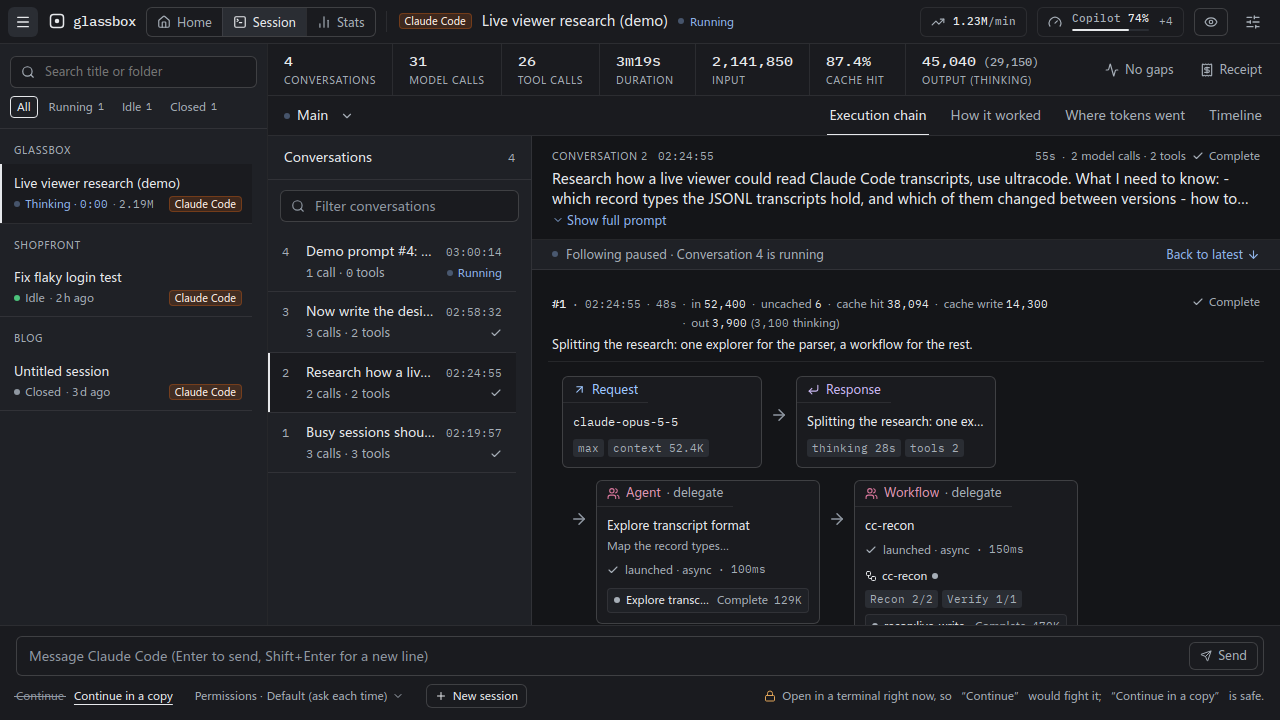
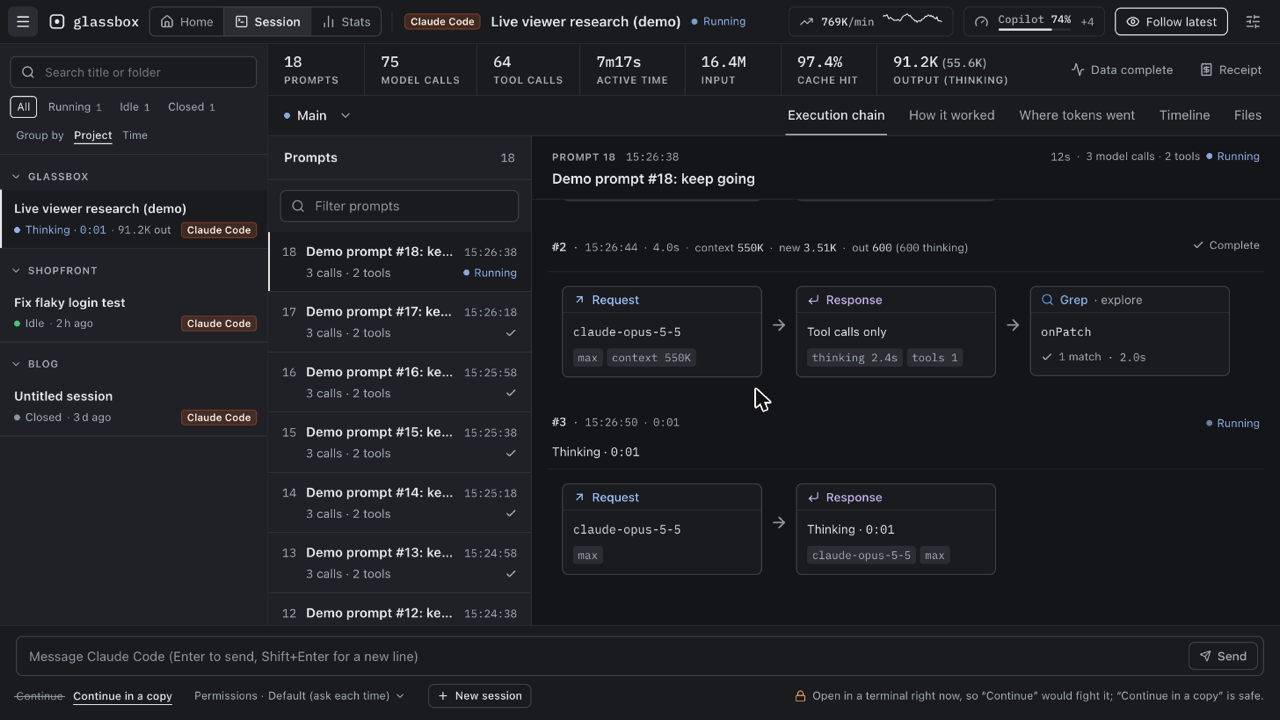
glassbox v0.6.0

diff --git a/README.md b/README.md
@@ -10,25 +10,25 @@
 
 **Execution chain**: every model call of a turn, laid out as request → response → tools. Agent / Workflow cards show the progress of their sub-agents and phases; click through to see that agent's own chain.
 
-|                                                          How it worked                                                           |                                                  Where tokens went                                                  |
-| :------------------------------------------------------------------------------------------------------------------------------: | :-----------------------------------------------------------------------------------------------------------------: |
-|                                             ![How it worked](docs/images/steps.png)                                              |                                    ![Where tokens went](docs/images/tokens.png)                                     |
-|            What each step thought, said and did, grouped into phases such as explore / edit / run; failures stand out            | A one-line takeaway, the mix of cache reads, cache writes and output, a per-agent tree and the context growth curve |
-|                                                           **Timeline**                                                           |                                                 **Request details**                                                 |
-|                                              ![Timeline](docs/images/timeline.png)                                               |                                     ![Request details](docs/images/detail.png)                                      |
-| Whether the time went to thinking, generating, tools or idling; one lane per agent, so parallel workflow agents are easy to read |      The system prompt, messages and tools each request actually sent, as JSON trees you can copy and enlarge       |
-|                                                       **Sending messages**                                                       |                                                  **Live overlay**                                                   |
-|                                           ![Sending messages](docs/images/compose.png)                                           |                                        ![Live overlay](docs/images/live.png)                                        |
-|      Continue a session, or continue in a copy, from glassbox; replies stream in and permission prompts pop up in the page       |          No more black box while the model thinks: live thinking time, thinking tokens and streamed output          |
-|                                                          **Now board**                                                           |                                                   **Token rate**                                                    |
-|                                                ![Now board](docs/images/home.png)                                                |                                         ![Token rate](docs/images/rate.png)                                         |
-|                  What runs now, each session saying what it is doing this second; then the recently active ones                  |         Tokens a minute across this machine's CLIs, the last hour as a line; split by CLI and by token kind         |
-|                                                            **Stats**                                                             |                                                                                                                     |
-|                                                 ![Stats](docs/images/stats.png)                                                  |                                                                                                                     |
-|  When the agents worked this week, hour by hour; time by CLI and by project; the longest sessions, the tokens and the rate now   |                                                                                                                     |
-|                                                           **Receipt**                                                            |                                                 **Weekly receipt**                                                  |
-|                  <img src="docs/images/receipt.png" alt="Receipt: a session printed as a receipt" width="360">                   |      <img src="docs/images/weekly-receipt.png" alt="Weekly receipt: a week printed as a receipt" width="360">       |
-| A session printed as a receipt: its work, time and tokens, with the timeline as its barcode; made in your browser, ready to post |  The week as a receipt, from Stats or a session's Receipt: agent time, the hours as a grid, time by CLI and tokens  |
+|                                                          How it worked                                                           |                                                     Where tokens went                                                     |
+| :------------------------------------------------------------------------------------------------------------------------------: | :-----------------------------------------------------------------------------------------------------------------------: |
+|                                             ![How it worked](docs/images/steps.png)                                              |                                       ![Where tokens went](docs/images/tokens.png)                                        |
+|            What each step thought, said and did, grouped into phases such as explore / edit / run; failures stand out            |    A one-line takeaway, the mix of cache reads, cache writes and output, a per-agent tree and the context growth curve    |
+|                                                           **Timeline**                                                           |                                                    **Request details**                                                    |
+|                                              ![Timeline](docs/images/timeline.png)                                               |                                        ![Request details](docs/images/detail.png)                                         |
+| Whether the time went to thinking, generating, tools or idling; one lane per agent, so parallel workflow agents are easy to read |         The system prompt, messages and tools each request actually sent, as JSON trees you can copy and enlarge          |
+|                                                       **Sending messages**                                                       |                                                     **Live overlay**                                                      |
+|                                           ![Sending messages](docs/images/compose.png)                                           |                                           ![Live overlay](docs/images/live.png)                                           |
+|      Continue a session, or continue in a copy, from glassbox; replies stream in and permission prompts pop up in the page       |             No more black box while the model thinks: live thinking time, thinking tokens and streamed output             |
+|                                                          **Home board**                                                          |                                                      **Token rate**                                                       |
+|                                               ![Home board](docs/images/home.png)                                                |                                            ![Token rate](docs/images/rate.png)                                            |
+|        Needs you, Working, Recent: which sessions wait for you and for what, which are working and on what, then the rest        |            Tokens a minute across this machine's CLIs, the last hour as a line; split by CLI and by token kind            |
+|                                                            **Stats**                                                             |                                                         **Files**                                                         |
+|                                                 ![Stats](docs/images/stats.png)                                                  |                                              ![Files](docs/images/files.png)                                              |
+|  When the agents worked this week, hour by hour; time by CLI and by project; the longest sessions, the tokens and the rate now   | Which files the session read, edited and created, by directory; each unfolds into its edits as diffs, linked to the calls |
+|                                                           **Receipt**                                                            |                                                    **Weekly receipt**                                                     |
+|                  <img src="docs/images/receipt.png" alt="Receipt: a session printed as a receipt" width="360">                   |         <img src="docs/images/weekly-receipt.png" alt="Weekly receipt: a week printed as a receipt" width="360">          |
+| A session printed as a receipt: its work, time and tokens, with the timeline as its barcode; made in your browser, ready to post |     The week as a receipt, from Stats or a session's Receipt: agent time, the hours as a grid, time by CLI and tokens     |
 
 ## Run it
 
@@ -43,7 +43,7 @@ The first run downloads and builds (about a minute), then opens `http://127.0.0.
 Pin a version (recommended, so the contents do not change with the branch):
 
 ```sh
-npx --yes github:gogy717/glassbox#v0.5.0
+npx --yes github:gogy717/glassbox#v0.6.0
 ```
 
 Common options:
@@ -69,12 +69,13 @@ To install it for good: `npm install -g github:gogy717/glassbox`, then run `glas
 ## What you can see
 
 - **Three pages**: Home, Session and Stats, in the top bar; the glassbox wordmark goes Home too. Session takes you back to the session you last had open, or else to the most recently active one.
-- **Now board**: Home lists the running sessions first, each saying what it is doing right now ("Reading tokens.css · 0:04", "Thinking · 1:12", "Waiting for you"), then the recently active ones. The sidebar's rows say the same.
-- **Stats**: this week (from Monday) or the last 7 days, across every session glassbox lists: agent time, session time, sessions, model and tool calls, sub-agents and failures; a 7 × 24 grid of when the agents worked, with a card for the hour you pick (the busiest, to begin with); time by CLI and by project (hover one to see it alone in the grid, click to pin it); the longest sessions; the tokens; and right now, the token rate and plan usage. It reads the week each time you open it and every minute while it is in view; "Data as of" says when, and Refresh reads it again at once.
-- **Execution chain**: organised by user turn, one row per model call: request → response → tools, failures in red. While the model thinks it shows "Thinking · m:ss", and running tools count up live.
+- **Home board**: Needs you first: the sessions waiting for you, each saying what for ("Permission · Bash", "Question", "Your turn") and for how long; then Working, each saying what it is doing right now ("Reading tokens.css · 0:04", "Thinking · 1:12"); then Recent. The sidebar's rows say the same. The tab's title counts the sessions that need you ("(2) glassbox"), and a setting can send a desktop notification when one begins to wait.
+- **Stats**: this week (from Monday) or the last 7 days, across every session glassbox lists: agent time, session time, sessions, model and tool calls, sub-agents and failures; a 7 × 24 grid of when the agents worked, with a card for the hour you pick (the busiest, to begin with); time by CLI and by project (hover one to see it alone in the grid, click to pin it); the longest sessions; the tokens; and right now, the token rate and plan usage. It reads the week each time you open it and every minute while it is in view; "Data as of" says when, and Refresh reads it again at once. Less than a day into the week, the Stats link opens on the last 7 days and says so once.
+- **Execution chain**: organised by prompt (each message you sent), one row per model call: request → response → tools, failures in red; a call row reads `context 317K · new 4.9K · out 1.4K`, with the full token split on hover. The prompt list marks each day and folds runs of local commands. While the model thinks it shows "Thinking · m:ss", and running tools count up live.
 - **How it worked**: each turn told step by step as "thought → said → did → outcome", grouped into phases such as explore / edit / run / delegate.
 - **Where tokens went**: cache reads, cache writes, uncached input and output (including thinking); totals per agent and per Workflow phase; the context growth curve (with compaction points); the most expensive requests.
 - **Timeline**: one lane per agent, split into waiting / thinking / generating / tools; where the time went and the 10 slowest steps.
+- **Files**: which files the session read, searched, edited and created, by directory relative to the project, with counts and the last touch; a file unfolds into its calls in order, edits as two-colour diffs, each linked to the call in the execution chain. Filter by Edited / Created / Read or by path, with or without sub-agents. Recognises the file tools of Claude Code, Codex, OpenCode, oh-my-pi and Grok.
 - **Multi-agent**: phases, agents, status and tokens of Agent sub-agents and Workflow (ultracode) runs; drill into any agent to see its own chain.
 - **Request details**: with Claude Code ≥ 2.1.300, the system prompt, tools and messages each request actually sent to the model.
 - **Plan usage per provider**: one meter per provider in the top bar, its window closest to the limit; click for every window, reset times, the plan, and where the numbers came from. Every 5 minutes glassbox asks the providers it can for fresh numbers (see Data and privacy), and shows whichever is newest: that answer or an agent's own cache. Stale data greys out per provider, says how old it is, and says why (such as an expired sign-in) and how it will refresh.
@@ -85,6 +86,8 @@ To install it for good: `npm install -g github:gogy717/glassbox`, then run `glas
   - DeepSeek: the account balance, asked of DeepSeek when `$DEEPSEEK_API_KEY` is set.
 - **Token rate**: the top bar shows how many tokens a minute the CLIs on this machine spend (a 5-minute average, with the last hour as a line); click it to split the rate by CLI and by token kind. It counts the running sessions glassbox has open, and says how many of them that is ("Counting 2 of 3 running sessions"). The hour is kept in memory only, so it starts afresh each time glassbox starts.
 - **Grok, Codex, oh-my-pi and OpenCode sessions**: when Grok Build, the Codex CLI, oh-my-pi or OpenCode is installed, their sessions appear in the sidebar too (view only), with sub-agents, tokens and time broken down the same way. An OpenCode session's child sessions show as its sub-agents.
+- **Session list**: grouped by project (a worktree reads `repo/worktree`) or by time (Today, Yesterday, This week, Earlier); fold a group from its title; pin a session (the button beside its row, or P) to keep it at the top. Each group shows its running and idle sessions and the five newest closed ones, with "N more" for the rest. Search covers title and folder.
+- **Summary bar**: prompts, model calls, tool calls, active time (and the days it spans), input, cache hit and output with its thinking share, as compact figures; the exact count is in each figure's tooltip.
 - **Diagnostics**: at the right of the summary bar, "Data complete" or how many gaps there are; click it for what data this session lacks, and why.
 - **Receipt**: press Receipt in the summary bar, then Copy image or Download PNG: the session as a receipt of its work, time and tokens, with its timeline as the barcode. Three sizes (Tall, Post 4:5, Story 9:16), on a paper or a night background, in English or Chinese; Copy as text gives the same receipt as plain text, for a PR or a chat. It is drawn in your browser from the data already on the page, without a single request, and it never prints a path: a path in the title keeps only its last part, and Hide names leaves out the title and the project as well.
 - **Weekly receipt**: press Print weekly receipt on Stats, or set Scope to This week or Last 7 days in a session's Receipt: the week as a receipt of agent time, the hours as a grid, the busiest hour, the work, time by CLI, the longest session and the tokens. It has to read every session of the week, not just the open ones: the first open shows how far it has got, and later opens are instant. Sizes, backgrounds, languages, Copy as text and the privacy rules are the session receipt's: it is drawn in your browser, nothing leaves this machine, it never prints a path, and Hide names leaves out titles and project names.

diff --git a/README.zh-CN.md b/README.zh-CN.md
@@ -10,25 +10,25 @@
 
 **执行链路**：按轮次展开每次模型调用——请求 → 回复 → 工具；Agent / Workflow 卡片直接显示子代理和各阶段的进度，点进去就能看那个代理自己的链路。
 
-|                                     思路拆解                                     |                                     Token 去向                                      |
-| :------------------------------------------------------------------------------: | :---------------------------------------------------------------------------------: |
-|                     ![思路拆解](docs/images/zh-CN/steps.png)                     |                     ![Token 去向](docs/images/zh-CN/tokens.png)                     |
-| 每一步想了什么、说了什么、做了什么，按探索 / 修改 / 执行等阶段归组，失败一眼可见 |            一句话结论、缓存读写与输出的构成、按代理的树和上下文增长曲线             |
-|                                    **时间线**                                    |                                    **请求详情**                                     |
-|                    ![时间线](docs/images/zh-CN/timeline.png)                     |                      ![请求详情](docs/images/zh-CN/detail.png)                      |
-| 时间花在思考、生成、工具还是空闲；每个代理一条泳道，并行的 workflow 代理一目了然 |        还原每次请求实际发出的 system、messages、tools，JSON 树可复制、可放大        |
-|                                    **发消息**                                    |                                    **实时浮层**                                     |
-|                     ![发消息](docs/images/zh-CN/compose.png)                     |                       ![实时浮层](docs/images/zh-CN/live.png)                       |
-|     在 glassbox 里继续或复制一份会话继续，回复实时流出，权限确认在界面里弹出     |           模型思考时也不再是黑盒：实时显示思考用时、思考 token 和流式输出           |
-|                                   **首页看板**                                   |                                   **Token 速率**                                    |
-|                     ![首页看板](docs/images/zh-CN/home.png)                      |                      ![Token 速率](docs/images/zh-CN/rate.png)                      |
-|      正在运行的会话排在前面，每个都写着它此刻在做什么；后面是最近活跃的会话      | 本机各个 CLI 每分钟消耗的 token，最近一小时画成一条线；可以按 CLI 和 token 类型拆开 |
-|                                     **统计**                                     |                                                                                     |
-|                       ![统计](docs/images/zh-CN/stats.png)                       |                                                                                     |
-| 这一周代理每个小时干了多少活；按 CLI、按项目的时间；最长的会话、token 和此刻速率 |                                                                                     |
-|                                     **小票**                                     |                                    **本周小票**                                     |
-| <img src="docs/images/zh-CN/receipt.png" alt="小票：印成小票的会话" width="360"> |  <img src="docs/images/zh-CN/weekly-receipt.png" alt="印成小票的一周" width="360">  |
-|  把会话印成小票：工作、时间和 token，时间线就是条码；在浏览器里生成，拿去就能发  |  把一周印成小票，从统计页或会话小票打印：代理时长、小时格子、按 CLI 的时间和 token  |
+|                                     思路拆解                                     |                                            Token 去向                                             |
+| :------------------------------------------------------------------------------: | :-----------------------------------------------------------------------------------------------: |
+|                     ![思路拆解](docs/images/zh-CN/steps.png)                     |                            ![Token 去向](docs/images/zh-CN/tokens.png)                            |
+| 每一步想了什么、说了什么、做了什么，按探索 / 修改 / 执行等阶段归组，失败一眼可见 |                   一句话结论、缓存读写与输出的构成、按代理的树和上下文增长曲线                    |
+|                                    **时间线**                                    |                                           **请求详情**                                            |
+|                    ![时间线](docs/images/zh-CN/timeline.png)                     |                             ![请求详情](docs/images/zh-CN/detail.png)                             |
+| 时间花在思考、生成、工具还是空闲；每个代理一条泳道，并行的 workflow 代理一目了然 |               还原每次请求实际发出的 system、messages、tools，JSON 树可复制、可放大               |
+|                                    **发消息**                                    |                                           **实时浮层**                                            |
+|                     ![发消息](docs/images/zh-CN/compose.png)                     |                              ![实时浮层](docs/images/zh-CN/live.png)                              |
+|     在 glassbox 里继续或复制一份会话继续，回复实时流出，权限确认在界面里弹出     |                  模型思考时也不再是黑盒：实时显示思考用时、思考 token 和流式输出                  |
+|                                   **首页看板**                                   |                                          **Token 速率**                                           |
+|                     ![首页看板](docs/images/zh-CN/home.png)                      |                             ![Token 速率](docs/images/zh-CN/rate.png)                             |
+| 等你处理、工作中、最近：哪些会话在等你、等什么；哪些在干活、干什么；然后是其余的 |        本机各个 CLI 每分钟消耗的 token，最近一小时画成一条线；可以按 CLI 和 token 类型拆开        |
+|                                     **统计**                                     |                                             **文件**                                              |
+|                       ![统计](docs/images/zh-CN/stats.png)                       |                               ![文件](docs/images/zh-CN/files.png)                                |
+| 这一周代理每个小时干了多少活；按 CLI、按项目的时间；最长的会话、token 和此刻速率 | 这个会话读了、改了、新建了哪些文件，按目录列出；每个文件展开就是它的改动 diff，并链接到对应的调用 |
+|                                     **小票**                                     |                                           **本周小票**                                            |
+| <img src="docs/images/zh-CN/receipt.png" alt="小票：印成小票的会话" width="360"> |         <img src="docs/images/zh-CN/weekly-receipt.png" alt="印成小票的一周" width="360">         |
+|  把会话印成小票：工作、时间和 token，时间线就是条码；在浏览器里生成，拿去就能发  |         把一周印成小票，从统计页或会话小票打印：代理时长、小时格子、按 CLI 的时间和 token         |
 
 ## 一键运行
 
@@ -43,7 +43,7 @@ npx --yes github:gogy717/glassbox
 固定版本（推荐，避免内容随分支变化）：
 
 ```sh
-npx --yes github:gogy717/glassbox#v0.5.0
+npx --yes github:gogy717/glassbox#v0.6.0
 ```
 
 常用参数：
@@ -69,12 +69,13 @@ npx --yes github:gogy717/glassbox#v0.5.0
 ## 能看到什么
 
 - **三个页面**：顶栏上的首页、会话、统计；点 glassbox 字标也回首页。"会话"带你回到上次打开的会话，没有的话就是最近活跃的那个。
-- **首页看板**：首页先列出正在运行的会话，每个都写着它此刻在做什么（"正在读取 tokens.css · 0:04"、"思考中 · 1:12"、"等你确认"），再列出最近活跃的会话；侧栏的每一行也这样写。
-- **统计**：本周（从周一算起）或最近 7 天里 glassbox 列出的全部会话：代理时长、会话时长、会话数、模型调用、工具调用、子代理和失败；7 × 24 的格子画出代理什么时候在干活，旁边的卡片写着你选的那个小时（一开始是最忙的那个）；按 CLI、按项目的时间（鼠标移上去，格子里只画它，点一下钉住）；最长的会话；token；还有"此刻"：token 速率和套餐用量。每次打开都重新读这一周，页面在前台时每分钟再读一次；"数据截至"写着读到几点，点"刷新"立刻再读。
-- **执行链路**：按用户轮次组织，每次模型调用一行：请求 → 回复 → 工具，失败标红；模型正在思考时显示"思考中 · 已 m:ss"，工具运行中实时计时。
+- **首页看板**：先是"等你处理"：在等你的会话，每个写着在等什么（"权限 · Bash"、"有问题问你"、"轮到你了"）和等了多久；然后是"工作中"，每个写着它此刻在做什么（"正在读取 tokens.css · 0:04"、"思考中 · 1:12"）；最后是最近的会话。侧栏的每一行也这样写。标签页标题会数出需要你处理的会话（"(2) glassbox"）；设置里可以打开桌面通知，有会话开始等你时提醒一次。
+- **统计**：本周（从周一算起）或最近 7 天里 glassbox 列出的全部会话：代理时长、会话时长、会话数、模型调用、工具调用、子代理和失败；7 × 24 的格子画出代理什么时候在干活，旁边的卡片写着你选的那个小时（一开始是最忙的那个）；按 CLI、按项目的时间（鼠标移上去，格子里只画它，点一下钉住）；最长的会话；token；还有"此刻"：token 速率和套餐用量。每次打开都重新读这一周，页面在前台时每分钟再读一次；"数据截至"写着读到几点，点"刷新"立刻再读。一周还不满一天时，顶栏的"统计"打开的是最近 7 天，并说明一次。
+- **执行链路**：按轮次（你发的每条消息）组织，每次模型调用一行：请求 → 回复 → 工具，失败标红；每行只写上下文、新增和输出三个紧凑数字，完整的 token 拆分在悬停提示里。轮次列表按天分组，连续的本地命令折成一行。模型正在思考时显示"思考中 · 已 m:ss"，工具运行中实时计时。
 - **思路拆解**：每一轮按"想了什么 → 说了什么 → 做了什么 → 结果"逐步展开，并归成探索 / 修改 / 执行 / 委派等阶段。
 - **Token 去向**：缓存读、缓存写、未缓存输入、输出（含思考）；按代理、Workflow 阶段汇总；上下文增长曲线（标出压缩点）；最贵的请求。
 - **时间线**：每个代理一条泳道，区分等待 / 思考 / 生成 / 工具；时间构成与最慢的 10 步。
+- **文件**：这个会话读了、搜了、改了、新建了哪些文件，按项目内的目录列出，带次数和最后一次的时间；展开一个文件就是它的每次调用，改动显示为双色 diff，每条都链接到执行链路里的那次调用。可按已修改 / 新建 / 已读取或路径筛选，可以含或不含子代理。认得 Claude Code、Codex、OpenCode、oh-my-pi 和 Grok 的文件工具。
 - **多代理**：Agent 子代理和 Workflow（ultracode）运行的阶段、代理、状态、token，可以钻进任意一个代理看它自己的链路。
 - **请求详情**：Claude Code ≥ 2.1.300 时，还原每次请求实际发给模型的 system prompt、tools 和 messages。
 - **各服务商的套餐用量**：顶栏每个服务商一个用量条，显示最接近上限的那个窗口；点开能看到每个窗口、重置时间、套餐和数据来源。glassbox 每 5 分钟向能查询的服务商要一次最新数字（见「数据与隐私」），和各智能体自己的缓存比较，显示较新的那份。数据旧了会按服务商分别变灰，标出是多久前的，并说明原因（比如登录已过期）和怎样才会刷新。
@@ -85,6 +86,8 @@ npx --yes github:gogy717/glassbox#v0.5.0
   - DeepSeek：账户余额，设置了 `$DEEPSEEK_API_KEY` 时向 DeepSeek 查询。
 - **Token 速率**：顶栏显示本机各个 CLI 每分钟消耗多少 token（5 分钟平均，最近一小时画成一条线）；点开可以按 CLI 和 token 类型拆开看。它统计 glassbox 打开着的运行中会话，并写明覆盖了几个（"统计了 3 个运行中会话里的 2 个"）。这一小时的数据只存在内存里，glassbox 每次启动都从头算起。
 - **Grok、Codex、oh-my-pi 和 OpenCode 会话**：本机装了 Grok Build、Codex CLI、oh-my-pi 或 OpenCode 时，它们的会话也会出现在侧栏（只能查看），子代理、token 和时间同样可以拆开看。OpenCode 会话的子会话显示为它的子代理。
+- **会话列表**：按项目（worktree 显示为 `仓库/worktree`）或按时间（今天、昨天、本周、更早）分组；点组名折叠；钉住一个会话（行旁的按钮，或按 P）让它常驻顶部。每组列出运行中和空闲的会话以及最近关闭的 5 个，其余折在"还有 N 个"里。搜索匹配标题和目录。
+- **汇总条**：轮次数、模型调用、工具调用、活跃时长（以及跨了几天）、输入、缓存命中和输出（含思考），都是紧凑数字；精确值在悬停提示里。
 - **诊断**：汇总条右侧写着"数据完整"或缺了几项；点开能看到这个会话缺了哪些数据、为什么缺。
 - **小票**：点汇总条上的"小票"，再点"复制图片"或"下载 PNG"，两步就把会话印成一张小票：工作、时间和 token，时间线就是条码。三种尺寸（长条、帖子 4:5、快拍 9:16），纸或夜两种底色，中文或英文；"复制为文本"给出同一张小票的纯文本，贴进 PR 或聊天里。图在你的浏览器里用页面上已有的数据画出来，不发一个请求，也从不印路径：标题里的路径只留最后一段，打开"隐去名字"连标题和项目名也不印。
 - **本周小票**：在统计页点"打印本周小票"，或在会话的小票里把"范围"切到"本周"或"最近 7 天"，就把一周印成小票：代理时长、按小时画的格子、最忙的一小时、工作、按 CLI 的时间、最长会话和 token。它要读这一周的每个会话，不只是打开着的：第一次打开会显示读到哪儿了，之后再打开立刻就有。尺寸、底色、语言、"复制为文本"和隐私规则都和会话小票一样：在你的浏览器里画出来，什么都不离开这台机器，从不印路径，"隐去名字"不印标题和项目名。
